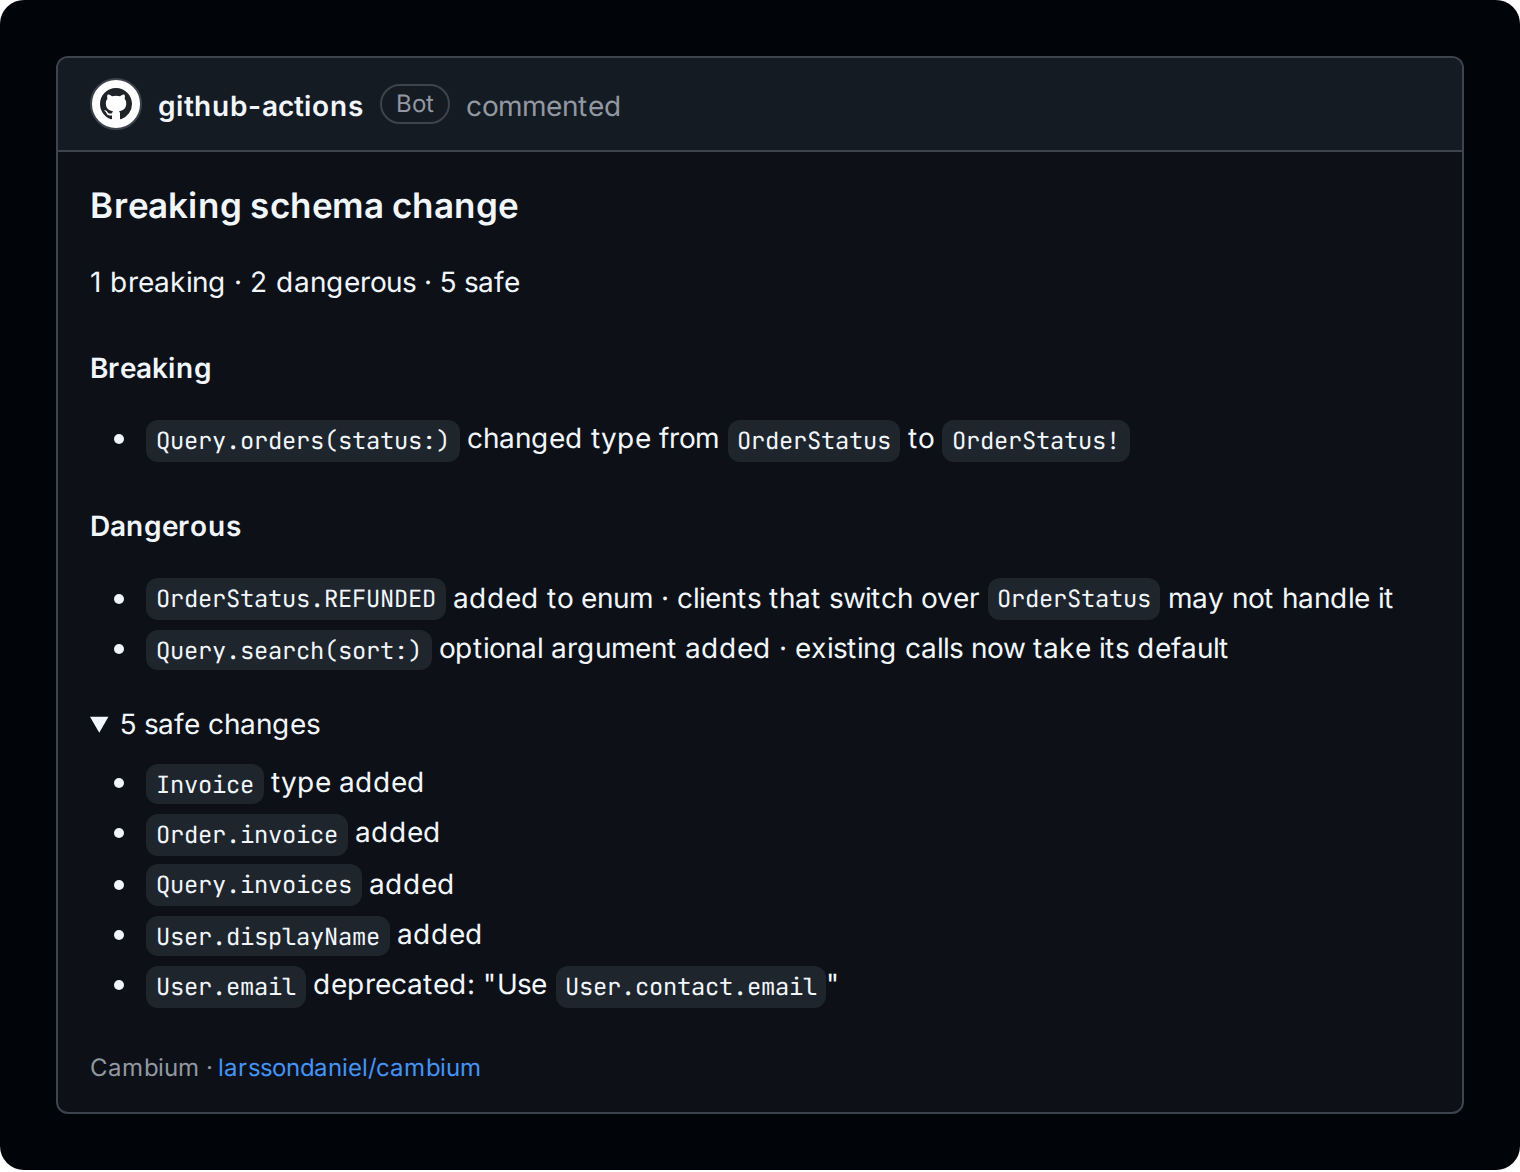
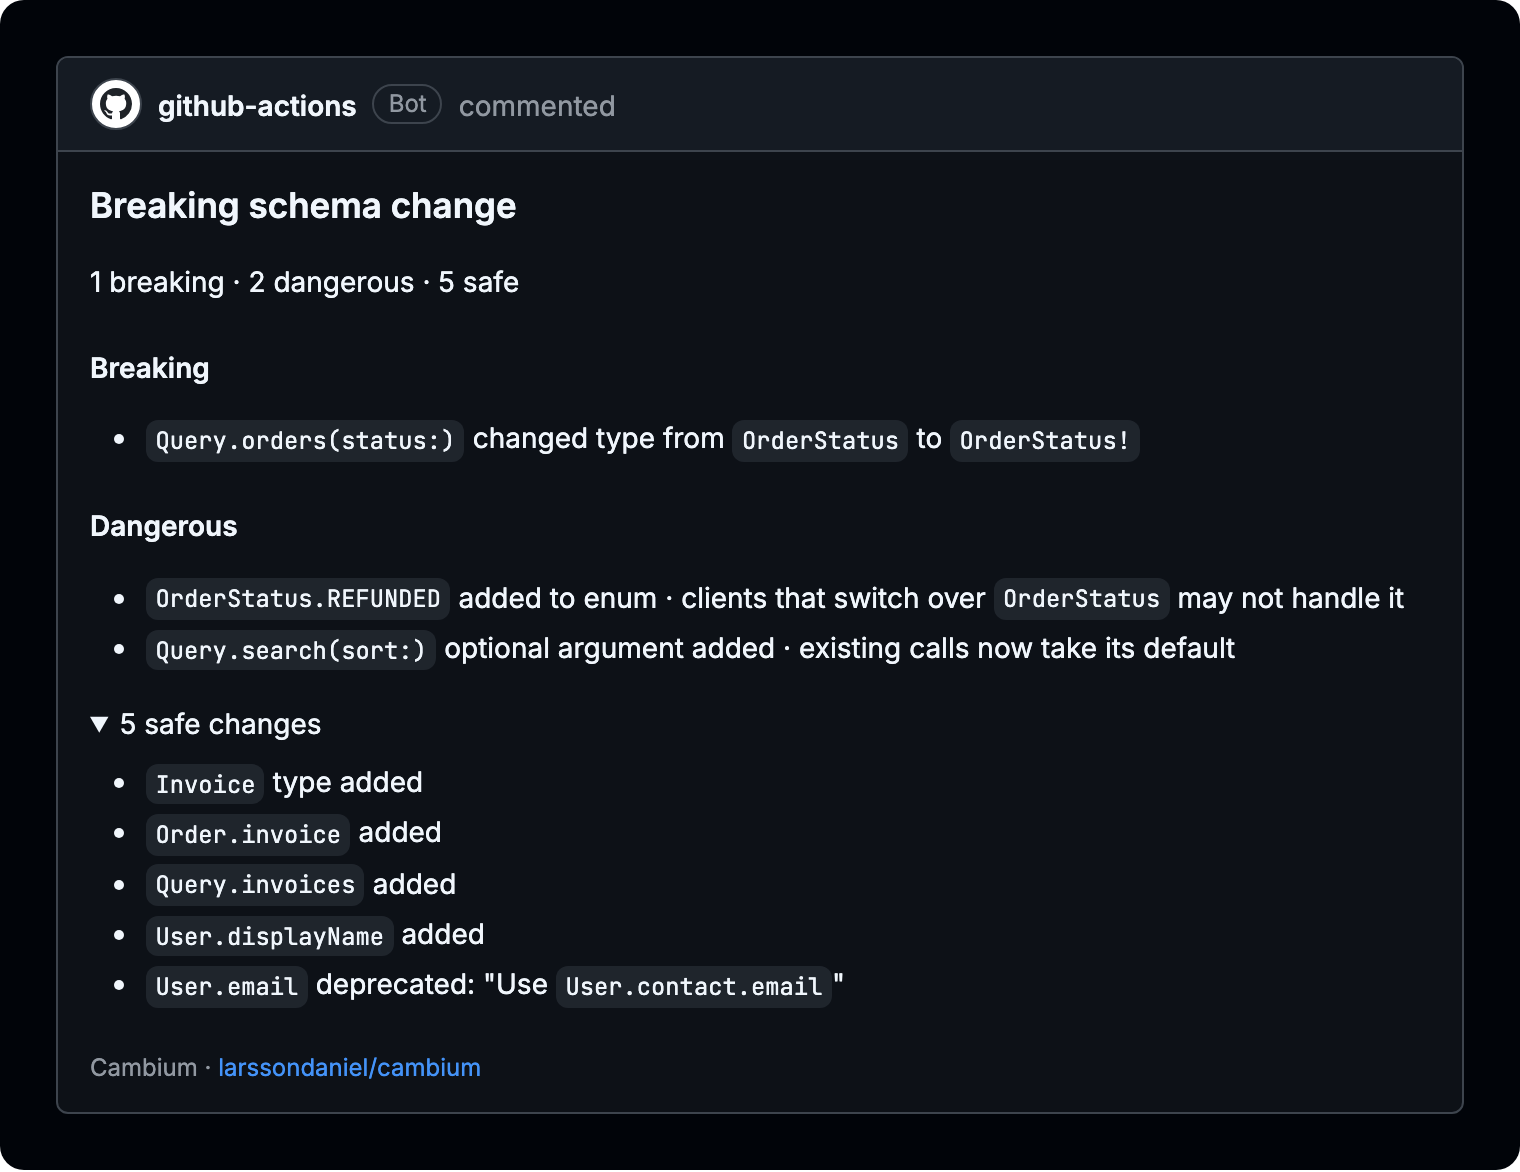
Give the README hero transparent corners
The stage has a 12 px radius but the captures were RGB, so the triangles
outside the radius were white and showed on GitHub's dark theme. The page
body is transparent and the stage is captured with omitBackground, so the
PNGs are RGBA with fully transparent corners.

diff --git a/scripts/screenshot/screenshots.ts b/scripts/screenshot/screenshots.ts
@@ -102,7 +102,13 @@ async function main(): Promise<void> {
       await tab.goto(pathToFileURL(file).href)
       await tab.evaluate(() => document.fonts.ready)
       const path = join(outDir, `comment-${theme}.png`)
-      await tab.locator('.stage').screenshot({ path, animations: 'disabled' })
+      // Transparent outside the stage's rounded corners, so the PNG sits on
+      // GitHub's dark theme without white triangles.
+      await tab.locator('.stage').screenshot({
+        path,
+        animations: 'disabled',
+        omitBackground: true
+      })
       console.log(`wrote ${path}`)
       await context.close()
     }

diff --git a/scripts/screenshot/stage.css b/scripts/screenshot/stage.css
@@ -8,6 +8,7 @@
 body {
   margin: 0;
   display: inline-block;
+  background: transparent;
   font-family: Inter, sans-serif;
   color: #1f2328;
 }
